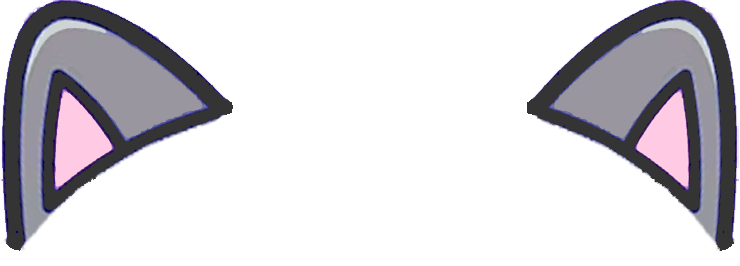
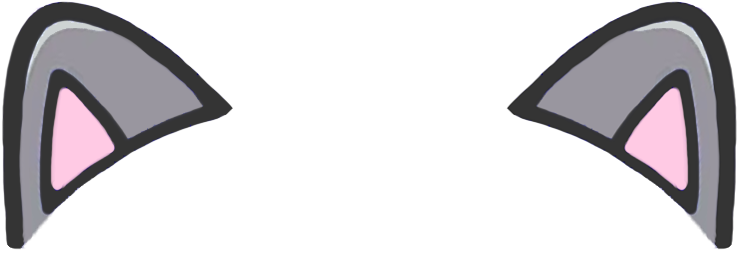
style: camcat 귀 수정

diff --git a/Sarkem/front_ex/src/components/camera/camcat.js b/Sarkem/front_ex/src/components/camera/camcat.js
@@ -28,7 +28,7 @@ const CamCat = (props) => {
             style={{
               position: 'absolute',
               top: '-15%',
-              left: '-1%',
+              left: '-1.5%',
               width: '96%',
               height: '40%',
               overflow: 'visible', 
